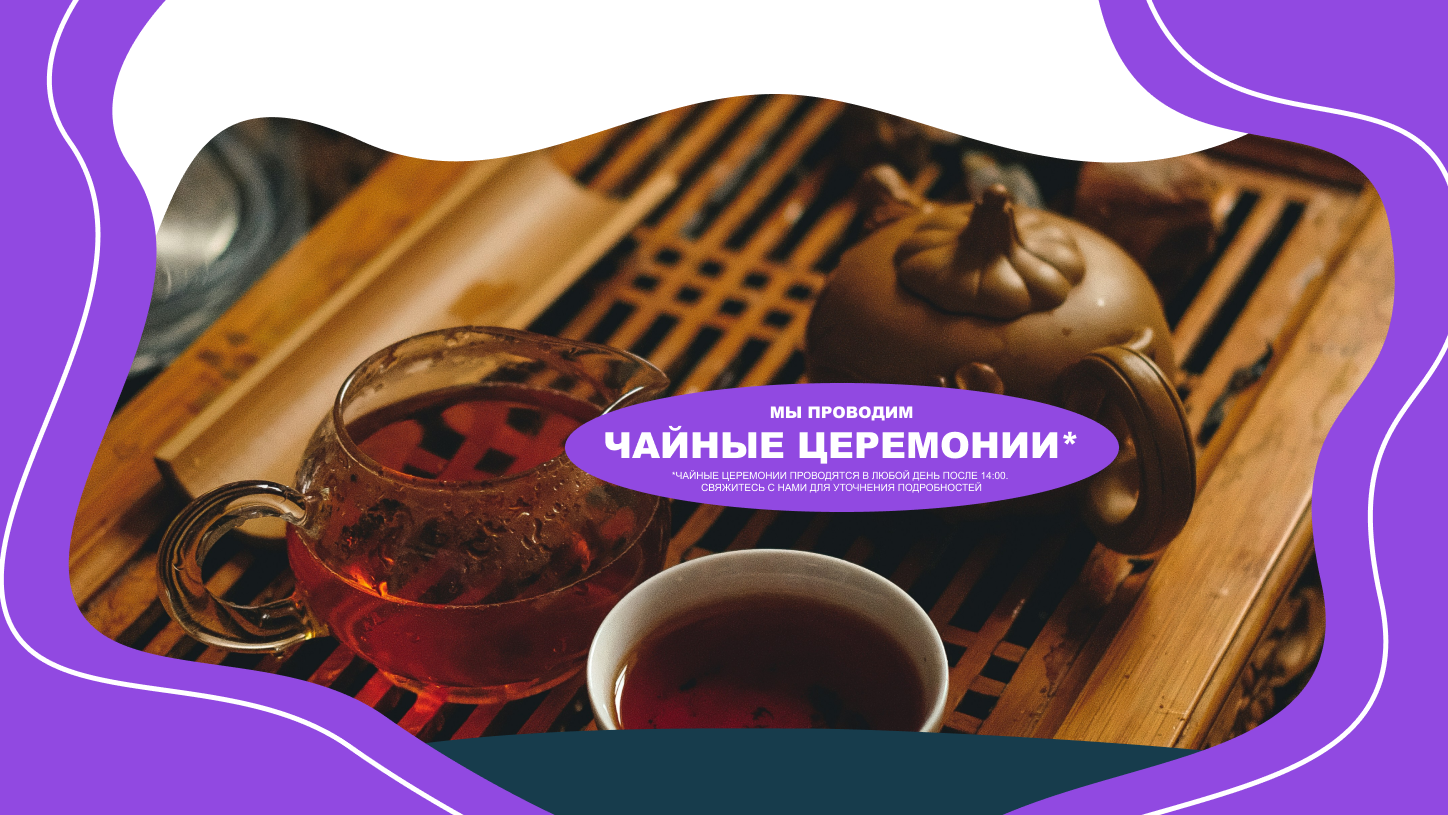
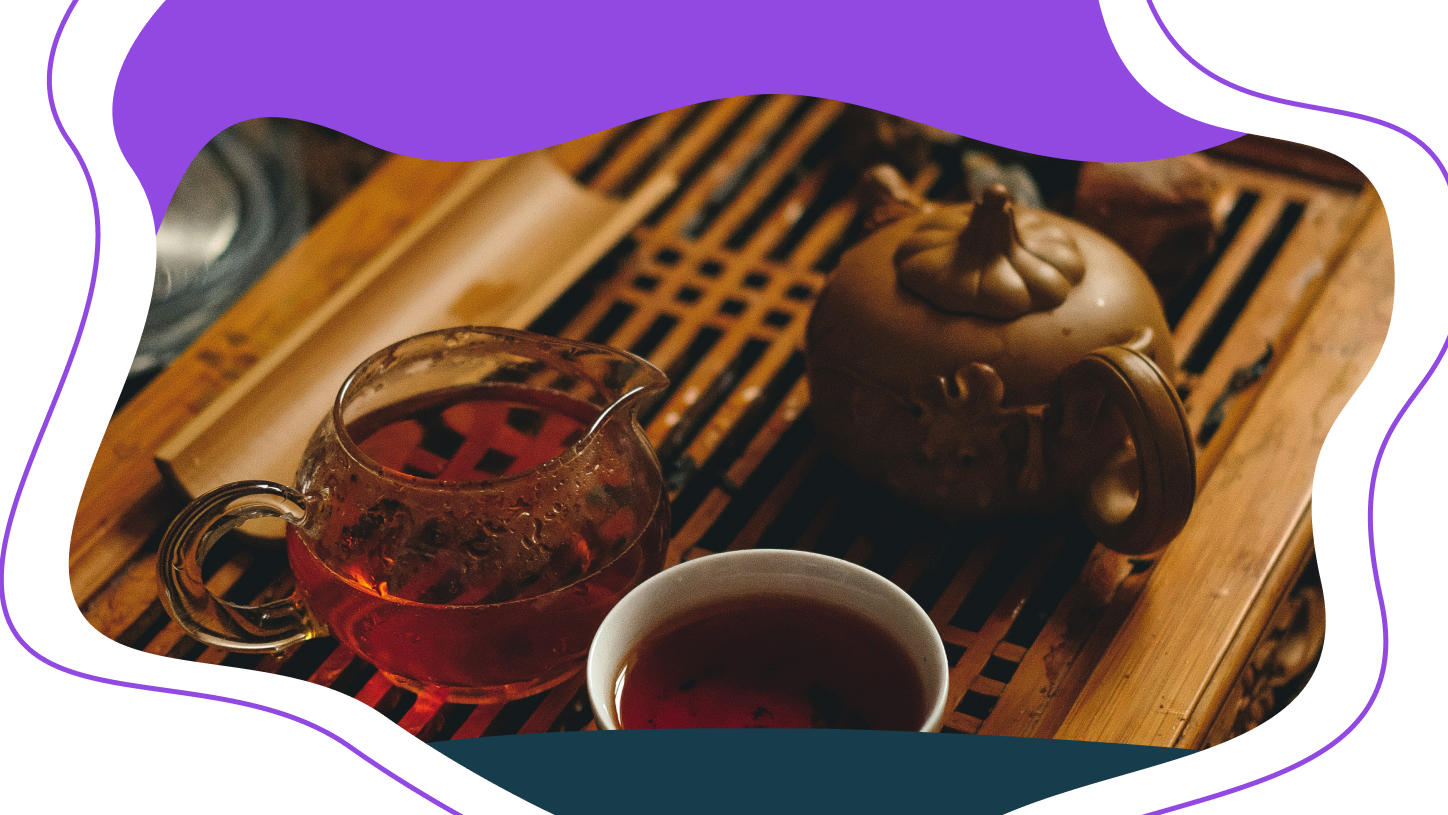
correct last page with cute scroll

diff --git a/layouts/irohNews.html b/layouts/irohNews.html
@@ -72,56 +72,32 @@
     </header>
 
     <main class="w-full">
-        <section class="carousel bg-gray-500 relative container mx-auto" style="max-width:1600px;">
-            <div class="carousel-inner relative overflow-hidden w-full">
-                <!--Slide 1-->
-                <input class="carousel-open" type="radio" id="carousel-1" name="carousel" aria-hidden="true" hidden="" checked="checked">
-                <div class="carousel-item absolute opacity-0" style="height:100vh;">
-                    <div class="block h-full w-full mx-auto flex pt-6 md:pt-0 md:items-center bg-cover bg-top " style="background-image: url('/imgs/news_sale.png')">
-
-                    </div>
-                </div>
-              
-                <label for="carousel-3" class="prev control-1 w-10 h-10 ml-2 md:ml-10 absolute cursor-pointer hidden text-3xl font-bold text-black hover:text-white rounded-full bg-opacity-20 bg-white hover:bg-gray-900 leading-tight text-center z-10 inset-y-0 left-0 my-auto">‹</label>
-                <label for="carousel-2" class="next control-1 w-10 h-10 mr-2 md:mr-10 absolute cursor-pointer hidden text-3xl font-bold text-black hover:text-white rounded-full bg-opacity-20 bg-white hover:bg-gray-900 leading-tight text-center z-10 inset-y-0 right-0 my-auto">›</label>
-          
-                <!--Slide 2-->
-                <input class="carousel-open" type="radio" id="carousel-2" name="carousel" aria-hidden="true" hidden="">
-                <div class="carousel-item absolute opacity-0" style="height:100vh;">
-                    <div class="block h-full w-full mx-auto flex pt-6 md:pt-0 md:items-center bg-cover bg-top" style="background-image: url('/imgs/news_matcha.png')">
-          
-                    </div>
-                </div>
-                <label for="carousel-1" class="prev control-2 w-10 h-10 ml-2 md:ml-10 absolute cursor-pointer hidden text-3xl font-bold text-black hover:text-white rounded-full bg-opacity-20 bg-white hover:bg-gray-900  leading-tight text-center z-10 inset-y-0 left-0 my-auto">‹</label>
-                <label for="carousel-3" class="next control-2 w-10 h-10 mr-2 md:mr-10 absolute cursor-pointer hidden text-3xl font-bold text-black hover:text-white rounded-full bg-opacity-20 bg-white hover:bg-gray-900  leading-tight text-center z-10 inset-y-0 right-0 my-auto">›</label>
-          
-                <!--Slide 3-->
-                <input class="carousel-open" type="radio" id="carousel-3" name="carousel" aria-hidden="true" hidden="">
-                <div class="carousel-item absolute opacity-0" style="height:100vh;">
-                    <div class="block h-full w-full mx-auto flex pt-6 md:pt-0 md:items-center bg-cover bg-top" style="background-image: url('/imgs/news_tea.png')">
-          
-                    </div>
-                </div>
-                <label for="carousel-2" class="prev control-3 w-10 h-10 ml-2 md:ml-10 absolute cursor-pointer hidden text-3xl font-bold text-black hover:text-white rounded-full bg-opacity-20 bg-white hover:bg-gray-900  leading-tight text-center z-10 inset-y-0 left-0 my-auto">‹</label>
-                <label for="carousel-1" class="next control-3 w-10 h-10 mr-2 md:mr-10 absolute cursor-pointer hidden text-3xl font-bold text-black hover:text-white rounded-full bg-opacity-20 bg-white hover:bg-gray-900  leading-tight text-center z-10 inset-y-0 right-0 my-auto">›</label>
-          
-                <!-- slide indicators -->
-                <ol class="carousel-indicators">
-                    <li class="inline-block mr-3">
-                        <label for="carousel-1" class="z-0 carousel-bullet cursor-pointer block text-4xl text-gray-400 hover:text-gray-900">•</label>
-                    </li>
-                    <li class="inline-block mr-3">
-                        <label for="carousel-2" class="z-0 carousel-bullet cursor-pointer block text-4xl text-gray-400 hover:text-gray-900">•</label>
-                    </li>
-                    <li class="inline-block mr-3">
-                        <label for="carousel-3" class="z-0 carousel-bullet cursor-pointer block text-4xl text-gray-400 hover:text-gray-900">•</label>
-                    </li>
-                </ol>
+        <section class="relative">
+            <!-- первый слайд -->
+            <div class="sticky top-0 h-screen flex flex-col items-center text-center justify-center bg-mySale bg-no-repeat bg-cover bg-top text-myBrown uppercase">
+                <h2 class="text-4xl font-bold">Всем клиентам чай по тарифу 1+1=3*</h2>
+                <p class="mt-2 mb-20">*Акция действует при заказе двух и более чайников одного вида чая</p>
+                <a href="https://t.me/irohteaa/19">
+                    <button class="text-white bg-myPurple border-0 py-2 px-6 focus:outline-none hover:bg-purple-700 rounded text-lg animate-bounce">Подробнее об акции</button>
+                </a>
+            </div>
+            <!-- второй слайд -->
+            <div class="sticky top-0 h-screen flex flex-col items-center text-center justify-center bg-myMatcha bg-no-repeat bg-cover bg-top text-white uppercase">
+                <h2 class="text-4xl font-bold">Вместе с мастерами учим заваривать матчу*</h2>
+                <p class="mt-2 mb-20">*Мастер-классы проводятся по будням после 18:00</p>
+                <a href="https://t.me/irohteaa/19">
+                    <button class="text-white bg-myPurple border-0 py-2 px-6 focus:outline-none hover:bg-purple-700 rounded text-lg animate-bounce">Подробнее об акции</button>
+                </a>
+            </div>
+            <!-- третий слайд -->
+            <div class="sticky top-0 h-screen flex flex-col items-center text-center justify-center bg-myTeaceremony bg-no-repeat bg-cover bg-top text-white uppercase">
+                <h2 class="text-4xl font-bold">Мы проводим чайные церемонии*</h2>
+                <p class="mt-2 mb-20">*Чайные церемонии проводятся в любой день после 14:00</p>
+                <a href="https://t.me/irohteaa/19">
+                    <button class="text-white bg-myPurple border-0 py-2 px-6 focus:outline-none hover:bg-purple-700 rounded text-lg animate-bounce">Подробнее об акции</button>
+                </a>
             </div>
         </section>
-        <a href="https://t.me/irohteaa">
-            <button class="text-white bg-myPurple border-0 py-2 px-6 focus:outline-none hover:bg-purple-700 rounded text-lg animate-bounce">Связаться с нами</button>
-        </a>
     </main>
 
     <!-- подвал сайта -->

diff --git a/css/style.css b/css/style.css
@@ -578,13 +578,12 @@ video {
   position: relative;
 }
 
-.inset-0 {
-  inset: 0px;
+.sticky {
+  position: sticky;
 }
 
-.inset-y-0 {
-  top: 0px;
-  bottom: 0px;
+.inset-0 {
+  inset: 0px;
 }
 
 .bottom-0 {
@@ -634,11 +633,6 @@ video {
   margin-right: auto;
 }
 
-.my-auto {
-  margin-top: auto;
-  margin-bottom: auto;
-}
-
 .mb-1 {
   margin-bottom: 0.25rem;
 }
@@ -671,16 +665,8 @@ video {
   margin-bottom: 1.5rem;
 }
 
-.ml-2 {
-  margin-left: 0.5rem;
-}
-
 .mr-2 {
   margin-right: 0.5rem;
-}
-
-.mr-3 {
-  margin-right: 0.75rem;
 }
 
 .mt-10 {
@@ -723,10 +709,6 @@ video {
   display: block;
 }
 
-.inline-block {
-  display: inline-block;
-}
-
 .flex {
   display: flex;
 }
@@ -745,10 +727,6 @@ video {
 
 .h-1 {
   height: 0.25rem;
-}
-
-.h-10 {
-  height: 2.5rem;
 }
 
 .h-12 {
@@ -789,10 +767,6 @@ video {
 
 .w-1\/3 {
   width: 33.333333%;
-}
-
-.w-10 {
-  width: 2.5rem;
 }
 
 .w-12 {
@@ -1036,11 +1010,6 @@ video {
   background-color: rgb(209 213 219 / var(--tw-bg-opacity));
 }
 
-.bg-gray-500 {
-  --tw-bg-opacity: 1;
-  background-color: rgb(107 114 128 / var(--tw-bg-opacity));
-}
-
 .bg-myBrown {
   --tw-bg-opacity: 1;
   background-color: rgb(89 84 81 / var(--tw-bg-opacity));
@@ -1070,10 +1039,6 @@ video {
   background-color: rgb(255 255 255 / var(--tw-bg-opacity));
 }
 
-.bg-opacity-20 {
-  --tw-bg-opacity: 0.2;
-}
-
 .bg-opacity-50 {
   --tw-bg-opacity: 0.5;
 }
@@ -1092,6 +1057,18 @@ video {
 
 .bg-mainSecondpage {
   background-image: url('/imgs/main_2nd_page.jpg');
+}
+
+.bg-myMatcha {
+  background-image: url('/imgs/news_matcha.png');
+}
+
+.bg-mySale {
+  background-image: url('/imgs/news_sale.png');
+}
+
+.bg-myTeaceremony {
+  background-image: url('/imgs/news_tea.png');
 }
 
 .bg-reviewSecondpage {
@@ -1244,10 +1221,6 @@ video {
   padding-top: 1.25rem;
 }
 
-.pt-6 {
-  padding-top: 1.5rem;
-}
-
 .text-center {
   text-align: center;
 }
@@ -1259,11 +1232,6 @@ video {
 .text-2xl {
   font-size: 1.5rem;
   line-height: 2rem;
-}
-
-.text-3xl {
-  font-size: 1.875rem;
-  line-height: 2.25rem;
 }
 
 .text-4xl {
@@ -1336,15 +1304,6 @@ video {
   line-height: 1.625;
 }
 
-.leading-tight {
-  line-height: 1.25;
-}
-
-.text-black {
-  --tw-text-opacity: 1;
-  color: rgb(0 0 0 / var(--tw-text-opacity));
-}
-
 .text-gray-100 {
   --tw-text-opacity: 1;
   color: rgb(243 244 246 / var(--tw-text-opacity));
@@ -1358,11 +1317,6 @@ video {
 .text-gray-300 {
   --tw-text-opacity: 1;
   color: rgb(209 213 219 / var(--tw-text-opacity));
-}
-
-.text-gray-400 {
-  --tw-text-opacity: 1;
-  color: rgb(156 163 175 / var(--tw-text-opacity));
 }
 
 .text-gray-500 {
@@ -1403,10 +1357,6 @@ video {
 .text-white {
   --tw-text-opacity: 1;
   color: rgb(255 255 255 / var(--tw-text-opacity));
-}
-
-.opacity-0 {
-  opacity: 0;
 }
 
 .shadow-md {
@@ -1563,11 +1513,6 @@ video {
   background-color: rgb(209 213 219 / var(--tw-bg-opacity));
 }
 
-.hover\:bg-gray-900:hover {
-  --tw-bg-opacity: 1;
-  background-color: rgb(17 24 39 / var(--tw-bg-opacity));
-}
-
 .hover\:bg-gray-900\/10:hover {
   background-color: rgb(17 24 39 / 0.1);
 }
@@ -1580,11 +1525,6 @@ video {
 .hover\:text-gray-500:hover {
   --tw-text-opacity: 1;
   color: rgb(107 114 128 / var(--tw-text-opacity));
-}
-
-.hover\:text-gray-900:hover {
-  --tw-text-opacity: 1;
-  color: rgb(17 24 39 / var(--tw-text-opacity));
 }
 
 .hover\:text-myGreen:hover {
@@ -1600,11 +1540,6 @@ video {
 .hover\:text-teal-700:hover {
   --tw-text-opacity: 1;
   color: rgb(15 118 110 / var(--tw-text-opacity));
-}
-
-.hover\:text-white:hover {
-  --tw-text-opacity: 1;
-  color: rgb(255 255 255 / var(--tw-text-opacity));
 }
 
 .hover\:after\:scale-100:hover::after {
@@ -1730,16 +1665,8 @@ video {
 }
 
 @media (max-width: 1024px) {
-  .md\:ml-10 {
-    margin-left: 2.5rem;
-  }
-
   .md\:ml-auto {
     margin-left: auto;
-  }
-
-  .md\:mr-10 {
-    margin-right: 2.5rem;
   }
 
   .md\:w-1\/2 {
@@ -1766,17 +1693,9 @@ video {
     grid-template-rows: repeat(3, minmax(0, 1fr));
   }
 
-  .md\:items-center {
-    align-items: center;
-  }
-
   .md\:px-16 {
     padding-left: 4rem;
     padding-right: 4rem;
-  }
-
-  .md\:pt-0 {
-    padding-top: 0px;
   }
 
   .md\:text-3xl {

diff --git a/tailwind.config.js b/tailwind.config.js
@@ -32,7 +32,10 @@ module.exports = {
         'mainFirstpage': "url('/imgs/main_1st_page.jpg')",
         'mainSecondpage': "url('/imgs/main_2nd_page.jpg')",
         'reviewSecondpage': "url('/imgs/review_2nd_page.jpg')",
-        'logoWhite': "url('/imgs/logo_white.svg')"
+        'logoWhite': "url('/imgs/logo_white.svg')",
+        'mySale': "url('/imgs/news_sale.png')",
+        'myMatcha': "url('/imgs/news_matcha.png')",
+        'myTeaceremony': "url('/imgs/news_tea.png')"
       },
     },
   },
